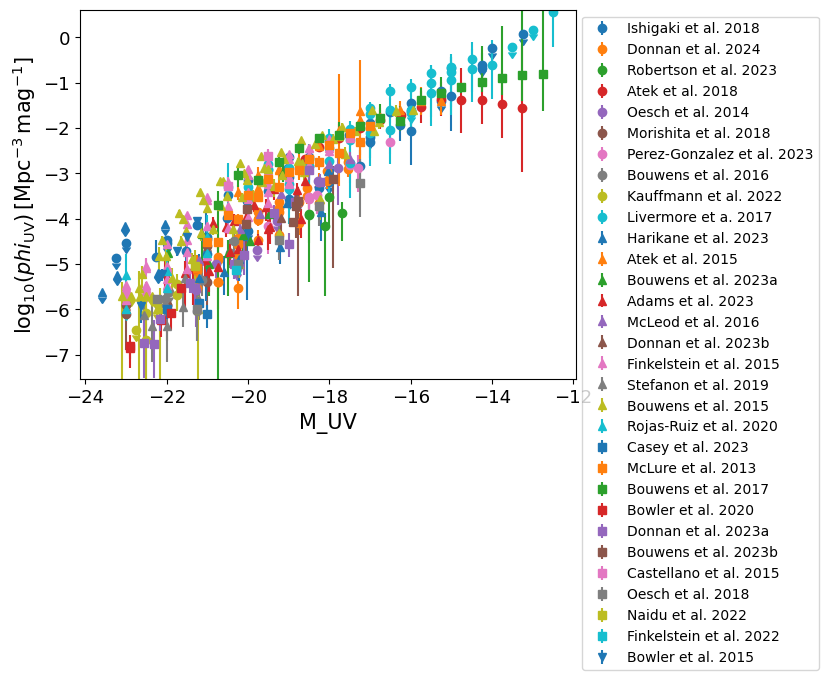
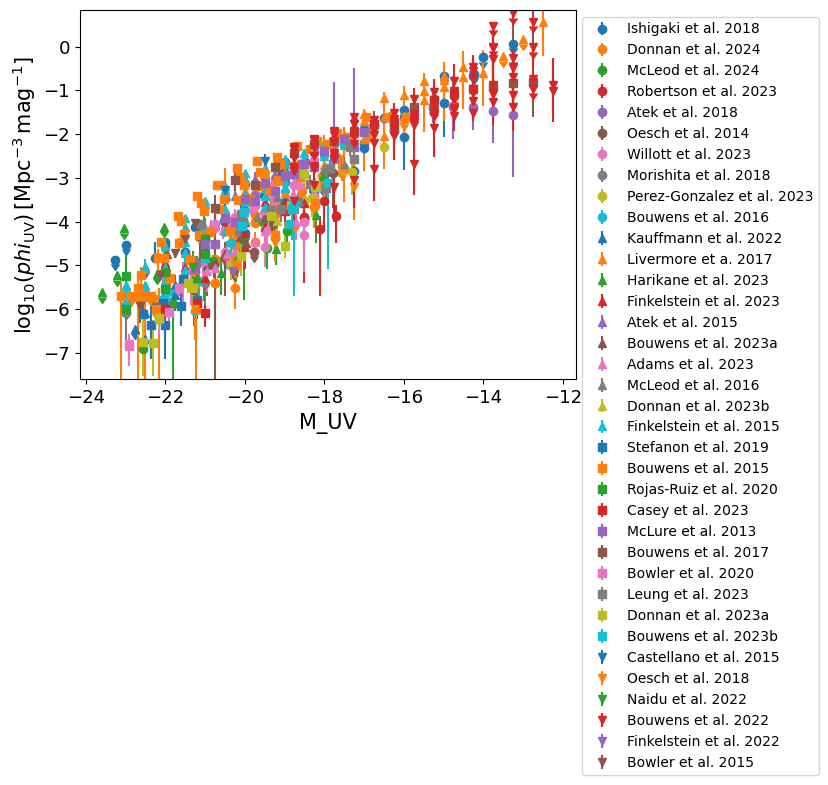
removed debug statement

diff --git a/corecon/loaders.py b/corecon/loaders.py
@@ -184,8 +184,7 @@ def _LoadAllVariables(fields, dicts):
             if filename=='__init__.py':
                 continue
             filepath = os.path.join(fieldpath, filename)
-            #try:
-            print(filepath)
-            _LoadDataIntoDictionary(filepath, dicts[field], field)
-            #except:
-            #    print(f"WARNING: Cannot load {filename}. Skipping it.")
+            try:
+                _LoadDataIntoDictionary(filepath, dicts[field], field)
+            except:
+                print(f"WARNING: Cannot load {filename}. Skipping it.")

diff --git a/docs/datarst/UV_luminosity_function.rst b/docs/datarst/UV_luminosity_function.rst
@@ -61,6 +61,12 @@ Data
 
    <a href="https://iopscience.iop.org/article/10.3847/1538-4357/aa70a4" target="_blank">Bouwens et al. 2017</a>
 
+|Bouwens et al. 2022|
+
+.. |Bouwens et al. 2022| raw:: html
+
+   <a href="https://iopscience.iop.org/article/10.3847/1538-4357/ac86d1" target="_blank">Bouwens et al. 2022</a>
+
 |Bouwens et al. 2023a|
 
 .. |Bouwens et al. 2023a| raw:: html
@@ -127,6 +133,12 @@ Data
 
    <a href="https://arxiv.org/pdf/2207.12474.pdf" target="_blank">Finkelstein et al. 2022</a>
 
+|Finkelstein et al. 2023|
+
+.. |Finkelstein et al. 2023| raw:: html
+
+   <a href="https://arxiv.org/pdf/2311.04279.pdf" target="_blank">Finkelstein et al. 2023</a>
+
 |Harikane et al. 2023|
 
 .. |Harikane et al. 2023| raw:: html
@@ -145,6 +157,12 @@ Data
 
    <a href="https://arxiv.org/pdf/2207.11740.pdf" target="_blank">Kauffmann et al. 2022</a>
 
+|Leung et al. 2023|
+
+.. |Leung et al. 2023| raw:: html
+
+   <a href="https://iopscience.iop.org/article/10.3847/2041-8213/acf365/pdf" target="_blank">Leung et al. 2023</a>
+
 |Livermore et a. 2017|
 
 .. |Livermore et a. 2017| raw:: html
@@ -156,6 +174,12 @@ Data
 .. |McLeod et al. 2016| raw:: html
 
    <a href="https://academic.oup.com/mnras/article/459/4/3812/2624050" target="_blank">McLeod et al. 2016</a>
+
+|McLeod et al. 2024|
+
+.. |McLeod et al. 2024| raw:: html
+
+   <a href="https://academic.oup.com/mnras/article/527/3/5004/7408621" target="_blank">McLeod et al. 2024</a>
 
 |McLure et al. 2013|
 
@@ -210,4 +234,10 @@ Data
 .. |Stefanon et al. 2019| raw:: html
 
    <a href="https://iopscience.iop.org/article/10.3847/1538-4357/ab3792" target="_blank">Stefanon et al. 2019</a>
+
+|Willott et al. 2023|
+
+.. |Willott et al. 2023| raw:: html
+
+   <a href="https://ui.adsabs.harvard.edu/abs/2023arXiv231112234W/abstract" target="_blank">Willott et al. 2023</a>
 

diff --git a/docs/datarst/UV_slope.rst b/docs/datarst/UV_slope.rst
@@ -55,6 +55,12 @@ Data
 
    <a href="https://arxiv.org/pdf/2212.04568.pdf" target="_blank">Curtis-Lake et al. 2022 (subm.)</a>
 
+|Donnan et al. 2023|
+
+.. |Donnan et al. 2023| raw:: html
+
+   <a href="https://ui.adsabs.harvard.edu/abs/2023MNRAS.520.4554D/abstract" target="_blank">Donnan et al. 2023</a>
+
 |Endsley et al. 2022|
 
 .. |Endsley et al. 2022| raw:: html
